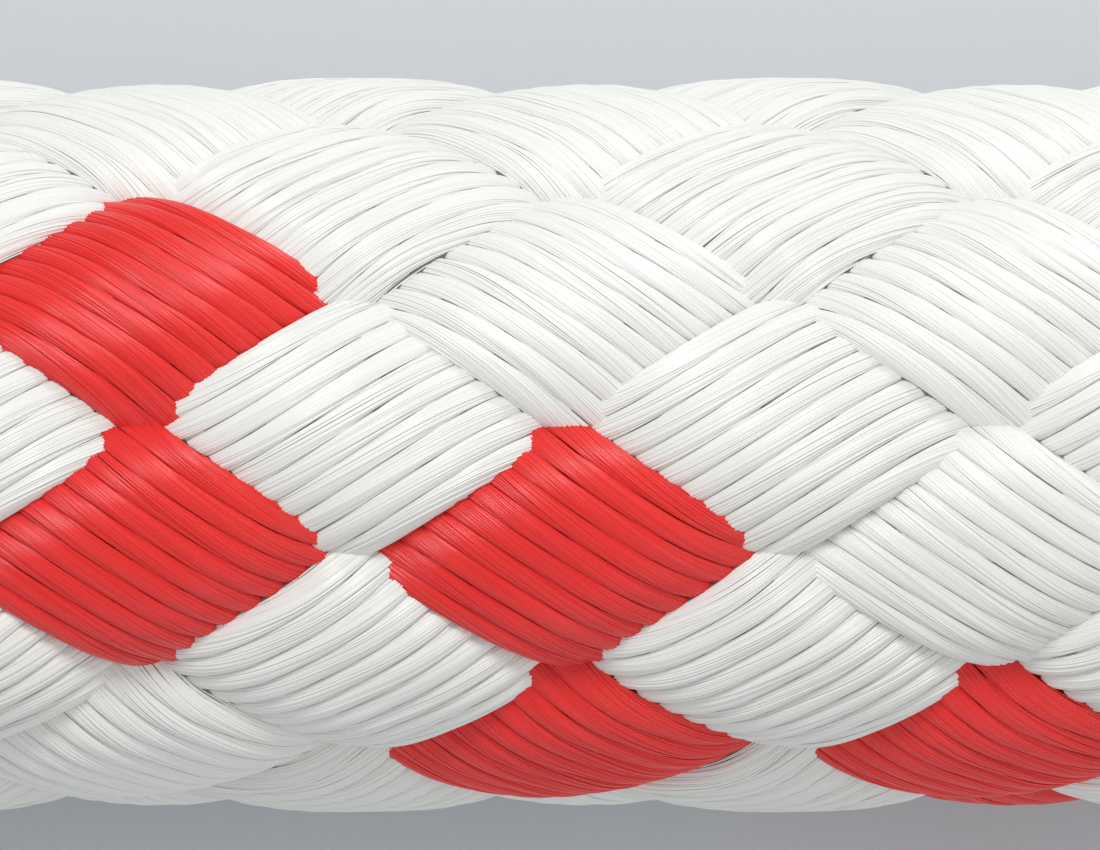
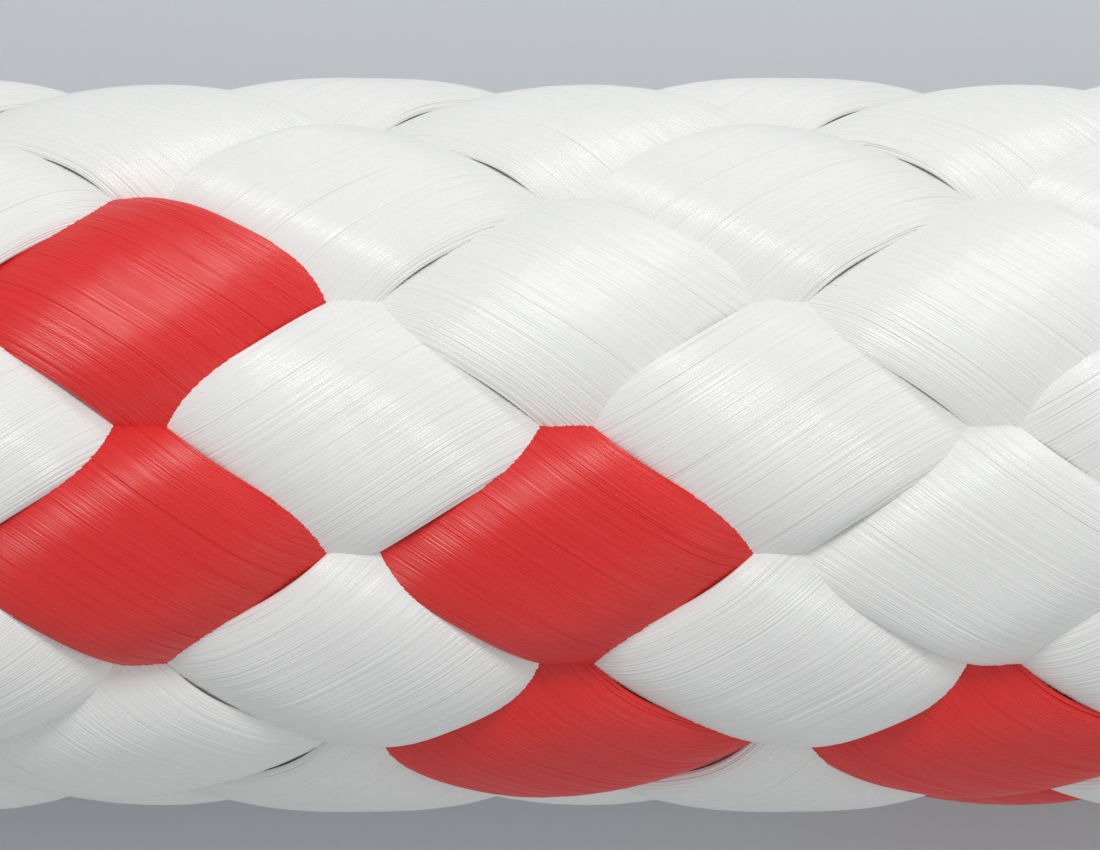
feat: flat untwisted filament tape for polyester output (flat-tape-2)
Twisted bundles read as cord; the sheath reference shows flat parallel
multifilament tapes with a single satin band. Filaments now lie in three
layers across the full carrier width with sub-filament drift only.

diff --git a/scripts/render_braid.py b/scripts/render_braid.py
@@ -62,9 +62,9 @@ camd.type='ORTHO'; camd.clip_end=400
 def sink(v,amount):
     n=Vector((0,v.y,v.z)).normalized()
     return v-n*amount
-dd=g['derivedDimensions']; width_mm=dd['widthMm']; end_d=dd['equivalentEndDiameterMm']
-lanes=max(2,int(round(width_mm/end_d))); R_mm=width_mm/(2*lanes); R_u=.5/lanes
-twist=opt['twistPitchMm']*scene_scale; nfib=opt['filamentsPerCarrier']
+# Flat multifilament tape: parallel, untwisted filaments in a few layers across the
+# full carrier width; only slow, sub-filament lateral drift breaks perfect regularity.
+nfib=opt['filamentsPerCarrier']; layers=opt['filamentLayers']; drift=opt['filamentDriftMm']*scene_scale
 for yi,yarn in enumerate(g['yarns']):
     raw=yarn['mesh']; vv=raw['vertices']
     verts=[Vector(vv[j:j+3])*scene_scale for j in range(0,len(vv),3)]
@@ -88,16 +88,15 @@ for yi,yarn in enumerate(g['yarns']):
     rng=random.Random(31+yi)
     cv=bpy.data.hair_curves.new('Filaments '+str(yarn['carrierNo'])); cv.add_curves([rings]*nfib)
     pos=[]; rad=[]
+    width_units=(sample(0,0)-sample(0,1)).length
     for f in range(nfib):
-        lane_c=(rng.randrange(lanes)+.5)/lanes
-        rr=rng.uniform(.85,1.15); phase=rng.uniform(0,math.tau)
-        rho=rng.uniform(opt['bundleShellStart'],1.0)
+        u0=rng.uniform(.004,.996); rr=rng.uniform(.85,1.15)
+        layer=rng.uniform(0,layers-1)*2*radius*.9
+        ph=rng.uniform(0,math.tau); wl=rng.uniform(40,90)*scene_scale
         for r in range(rings):
-            th=phase+math.tau*arc[r]/twist
-            u=max(.002,min(.998,lane_c+rho*R_u*math.cos(th)*.96))
-            # Bundle axis sits below the envelope; flattened shell keeps the production thickness.
-            h=(rho*math.sin(th)*opt['bundleFlatten']-.3)*R_mm*scene_scale
-            v=sink(sample(r,u),-h-radius*rr)
+            du=drift*math.sin(math.tau*arc[r]/wl+ph)/max(width_units,1e-6)
+            u=max(.002,min(.998,u0+du))
+            v=sink(sample(r,u),-(layer+radius*rr))
             pos.extend(v); rad.append(radius*rr)
     cv.points.foreach_set('position',pos)
     cv.attributes.new('radius','FLOAT','POINT').data.foreach_set('value',rad)
@@ -110,4 +109,4 @@ for name,width,target,res in [('rope.png',min(length*.88,90),(0,0,0),(1400,650))
     s.render.resolution_x=res[0]; s.render.resolution_y=res[1]; s.render.resolution_percentage=100
     s.render.filepath=str(OUT/name); started=time.time(); bpy.ops.render.render(write_still=True)
     stats.append(dict(file=name,seconds=time.time()-started))
-(OUT/'report.json').write_text(json.dumps(dict(recipe=recipe,profileVersion=opt['version'],geometrySha256=hashlib.sha256(CORE.read_bytes()).hexdigest(),carrierCount=g['carrierCount'],directions=g['directionCounts'],denoising=True,blender=bpy.app.version_string,assumedFilamentsPerEnd=opt['assumedFilamentsPerEnd'],filamentsPerCarrier=nfib,visibleBundlesPerCarrier=lanes,renders=stats,seconds=time.time()-t0),indent=2))
+(OUT/'report.json').write_text(json.dumps(dict(recipe=recipe,profileVersion=opt['version'],geometrySha256=hashlib.sha256(CORE.read_bytes()).hexdigest(),carrierCount=g['carrierCount'],directions=g['directionCounts'],denoising=True,blender=bpy.app.version_string,assumedFilamentsPerEnd=opt['assumedFilamentsPerEnd'],filamentsPerCarrier=nfib,filamentLayers=layers,renders=stats,seconds=time.time()-t0),indent=2))

diff --git a/AGENTS.md b/AGENTS.md
@@ -1,11 +1,11 @@
 # BraidStudio Calisma Sozlesmesi
 
-## Etkin durum — 2026-10-11 lif demeti cikti (fiber-bundle-1)
+## Etkin durum — 2026-10-11 duz filament serit cikti (flat-tape-2)
 
 - Blender adaptoru `scripts/render_braid.py` yeniden yazildi: tasiyici yuzeyi
-  oluk/kordon dokusu yerine hair-curve filamentlerle kaplanir. Gorunur demet
-  sayisi `widthMm / equivalentEndDiameterMm` (katmanli paketleme), filamentler
-  demet ekseni etrafinda `twistPitchMm` bukumle sarilir. Geometri cekirdegi
+  oluk/kordon dokusu yerine hair-curve filamentlerle kaplanir. Filamentler
+  bukumsuz, paralel, 3 katmanli duz serit olarak tum tasiyici enine yayilir
+  (kullanicinin kilif referansi: bukumlu demet degil, yassi satin serit). Geometri cekirdegi
   ve tasiyici yollari degismedi; 12 test gecti.
 - Ton: Standard view transform (AgX kirmiziyi somona kaydiriyor, beyazi
   griye bogiyordu), dar key isigi + genis fill. Hizli Three.js onizleme
